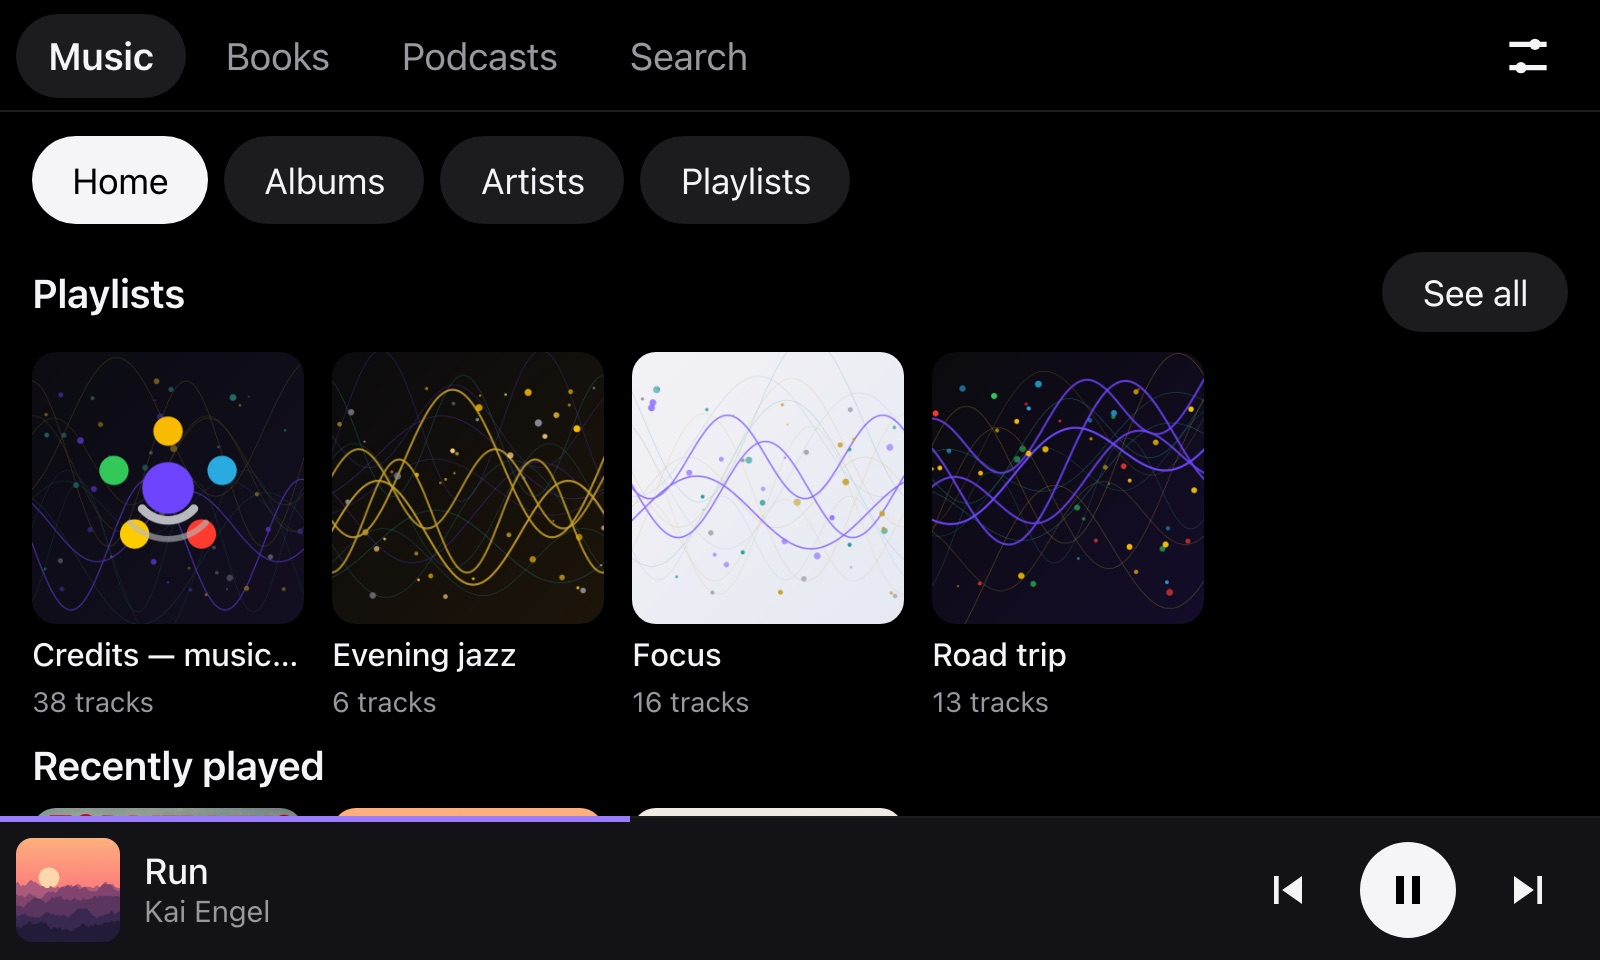
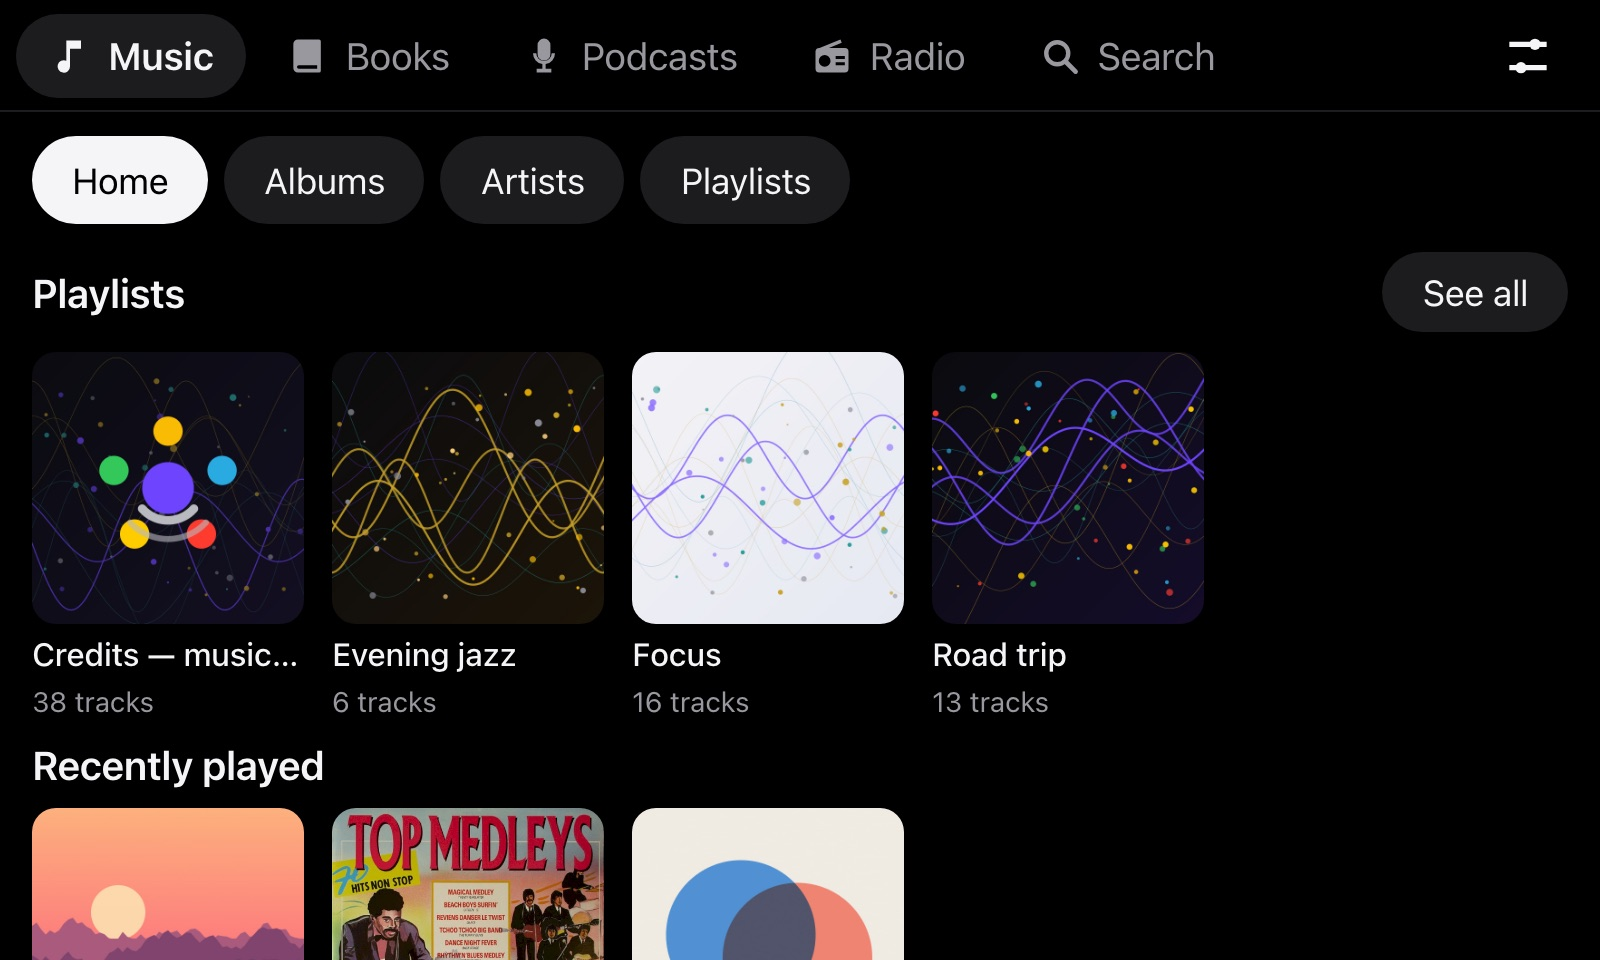
box: README screenshots with radio and the upright screen

diff --git a/README.md b/README.md
@@ -23,6 +23,13 @@
   <img src="docs/readme/screen-books.jpg" alt="Audiobooks, continue listening" width="400">
 </p>
 <p align="center">
+  <img src="docs/readme/screen-radio.jpg" alt="Internet radio, favourite stations" width="400">
+</p>
+<p align="center">
+  <img src="docs/readme/portrait-books.jpg" alt="Audiobooks on the upright Touch Display 2" width="200">
+  <img src="docs/readme/portrait-podcasts.jpg" alt="Podcasts on the upright Touch Display 2" width="200">
+</p>
+<p align="center">
   <img src="docs/readme/phone-player.jpg" alt="The box controlled from a phone" width="200">
   <img src="docs/readme/phone-playlists-light.jpg" alt="Playlists and smart playlists, light mode, on a phone" width="200">
 </p>

diff --git a/CHANGELOG.md b/CHANGELOG.md
@@ -7,6 +7,10 @@ that version's section below as a GitHub Release.
 
 ## [Unreleased]
 
+### Changed
+
+- README: new screenshots with the Radio tab, and the upright Touch Display 2.
+
 ## [1.0.0-beta.18] — 2026-11-22
 
 The start-up film fits the older 800×480 Raspberry Pi screen. Boxes on beta.10 or later
